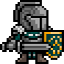
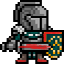
Les ennemis bougent !

diff --git a/square/logic-grid.js b/square/logic-grid.js
@@ -23,10 +23,8 @@ Camera.prototype.follow = function (sprite) {
 Camera.prototype.update = function () {
     // assume followed sprite should be placed at the center of the screen
     // whenever possible
-// if(this.following.life==0)
-// console.log(map.getCol(this.following.x));//////////////////////////////MAP
 
-                if(this.following.life==0)return;
+    if(this.following.life==0)return;
     this.following.screenX = this.width / 2;
     this.following.screenY = this.height / 2;
  
@@ -66,22 +64,6 @@ function animation(map, x, y, imageName){
     this.y = y;
 	this.image = Loader.getImage(imageName);
 }
-
-function Troll(map, x, y, row, col, life, attaque, defense, regeneration, level) {
-    this.map = map;
-    this.level = level;
-    this.attaque = attaque;
-    this.defense = defense;
-    this.regeneration = regeneration;
-    this.x = x;
-    this.y = y;
-    this.row = row;
-    this.col = col;
-    this.life = life;
-    this.width = map.tsize;
-    this.height = map.tsize;
-    this.image = Loader.getImage('troll3');
-}
  
  
  
@@ -90,9 +72,10 @@ Game.load = function () {
         Loader.loadImage('tiles', '../assets/tiles_new.png'),
         Loader.loadImage('hero', '../assets/character.png'),
         Loader.loadImage('hero2', '../assets/character2.png'),
-        Loader.loadImage('troll1', '../assets/troll1.jpg'),
         Loader.loadImage('troll2', '../assets/troll2.png'),
         Loader.loadImage('troll3', '../assets/troll3.png'),
+        Loader.loadImage('scorpion1', '../assets/scorpion1.png'),
+        Loader.loadImage('scorpion2', '../assets/scorpion2.png'),
         Loader.loadImage('coin', '../assets/coin.png'),
         Loader.loadImage('cloud', '../assets/cloud.png'),
         Loader.loadImage('xp', '../assets/xp.png'),
@@ -110,14 +93,9 @@ Game.init = function () {
     this.hero = new Hero(map, 160, 160, 60, 15, 200, 0, 0, 0, 0, 0, 'pelle');//map - x - y - vie - attaque - defense - ecu - bois - ble - argile - xp - objet
 	generateTroll(64, 64, 1, 1);
 	generateTroll(192, 192, 3, 3);
-    
-	function generateTroll(x, y, row, col){
-		var nameTroll = 'troll'+x+y;
-		this.nameTroll = new Troll(map, x, y, row, col, 60, 22, 18, 0.5, 1);
-		monsters[row+'-'+col] = this.nameTroll;
-		// monsters.push(this.nameTroll);
-	}
-	// console.log(monsters);
+	generateMonstre(map, 384, 128, 6, 2, 10, 10, 0.1, 1, 'scorpion1', 'scorpion2', 2, -1, 0);
+	generateMonstre(map, 576, 192, 9, 3, 10, 10, 0.1, 1, 'scorpion1', 'scorpion2', 0.5, 0, 1);
+
     this.camera = new Camera(map, 1024, 768);
     this.camera.follow(this.hero);
 	document.getElementById("addBuild").addEventListener('click',
@@ -154,6 +132,14 @@ Game.update = function (delta) {
 	// console.log(dirx);
 	if(this.hero.life<=0) return false;
     this.hero.move(delta, dirx, diry);
+	
+	//mouvement monstres
+	Object.keys(monsters).forEach(function(key) {
+		if(monsters[key].vitesse >0){
+			monsters[key].move(delta);
+		}
+	})
+	
     this.camera.update();
 };
  
@@ -225,6 +211,19 @@ Game._drawLayer = function (layer) {
 	})
 	
 
+   //sprite personnages
+   if(Game.anim>=DUREE_ANIMATION/2){
+		this.image = Loader.getImage('hero2');
+		Object.keys(monsters).forEach(function(key) {
+			monsters[key].image = Loader.getImage(monsters[key].image1);
+		})
+   }
+	else{
+		this.image = Loader.getImage('hero');
+		Object.keys(monsters).forEach(function(key) {
+			monsters[key].image = Loader.getImage(monsters[key].image2);
+		})
+	}
 	
 	if(typeof(anim) != "undefined" && anim !== null) {
 		if(Game.animBref<=DUREE_ANIMATION){
@@ -247,6 +246,7 @@ Game._drawLayer = function (layer) {
 			Game.animBref=0;
 		}
 	}
+
 	
 
 	//tir tourelles portée : 2
@@ -315,7 +315,7 @@ Game._drawLayer = function (layer) {
 						}else{
 							builds[key].xDelta=0;
 							builds[key].yDelta=0;
-							monsters[keyMonster].life = monsters[keyMonster].life-10;
+							monsters[keyMonster].life = monsters[keyMonster].life-builds[key].caracteristique['attaque'];
 							builds[key].cible =0;
 						}
 					}
@@ -376,6 +376,12 @@ Game.render = function () {
     this._drawLayer(0);
     // draw main character
     //joachim change place juste après le dessin de la grille
+   // console.log(monsters);
+   
+   
+   
+    // draw map top layer
+    this._drawLayer(1);
    
 	Object.keys(monsters).forEach(function(key) {
 			if(monsters[key].life>0){
@@ -419,8 +425,6 @@ Game.render = function () {
                
                
                
-    // draw map top layer
-    this._drawLayer(1);
  
     this._drawGrid();
     

diff --git a/square/js/monstre.js b/square/js/monstre.js
@@ -1,0 +1,100 @@
+function Monstre(map, x, y, row, col, attaque, defense, regeneration, level, imageParam, imageParam2, vitesse, directionX, directionY) {
+    this.map = map;
+    this.level = level;
+    this.attaque = attaque;
+    this.defense = defense;
+    this.regeneration = regeneration;
+    this.x = x;
+    this.y = y;
+    this.row = row;
+    this.col = col;
+    this.life = 60;
+    this.width = map.tsize;
+    this.height = map.tsize;
+    this.image = imageParam;
+    this.image1 = imageParam;
+    this.image2 = imageParam2;
+    this.vitesse = vitesse;
+    this.directionX = directionX;
+    this.directionY = directionY;
+}
+
+function generateTroll(x, y, row, col){
+	var nameTroll = 'troll'+x+y;
+	this.nameTroll = new Monstre(map, x, y, row, col, 22, 18, 0.5, 2, 'troll3', 'troll2', 0, 0, 0);
+	monsters[row+'-'+col] = this.nameTroll;
+	// monsters.push(this.nameTroll);
+}
+    
+function generateMonstre(map, x, y, row, col, attaque, defense, regeneration, level, image1, image2, vitesse, directionX, directionY){
+	var nameMonstre = 'troll'+x+y;
+	this.nameTroll = new Monstre(map, x, y, row, col, attaque, defense, regeneration, level, image1, image2, vitesse, directionX, directionY);
+	
+	// console.log(this.nameTroll);
+	monsters[row+'-'+col] = this.nameTroll;
+}
+	
+
+Monstre.SPEED = 50; // pixels per second
+ 
+Monstre.prototype.move = function (delta) {
+	
+		
+    // move Monstre
+    this.x += this.directionX * this.vitesse * Monstre.SPEED * delta;
+    this.y += this.directionY * this.vitesse * Monstre.SPEED * delta;
+    // check if we walked into a non-walkable tile
+	
+	if(this.directionX == 1){
+		var tile = abs2[this.map.getRow(this.y)*this.map.rows+this.map.getCol(this.x)+1];
+	}
+	if(this.directionX == -1){
+		var tile = abs2[this.map.getRow(this.y)*this.map.rows+this.map.getCol(this.x)-1];
+	}
+	if(this.directionY == 1){
+		var tile = abs2[this.map.getRow(this.y)*this.map.rows+this.map.getCol(this.x)+this.map.rows];
+	}
+	if(this.directionY == -1){
+		var tile = abs2[this.map.getRow(this.y)*this.map.rows+this.map.getCol(this.x)-this.map.rows];
+	}
+	
+	var isSolid = tile === 3 || tile === 5 || tile === 6 || tile === 7 || tile === 16 || tile === 17;
+    if(isSolid){
+		
+			if(this.directionX == -1){
+				this.directionX = 1;
+			}
+			else if(this.directionX ==1){
+				this.directionX=-1;
+			}
+			if(this.directionY==-1)
+				this.directionY=1;
+			else if(this.directionY==1)
+				this.directionY=-1;
+	}
+    // this._ennemy(dirx, diry);
+   
+ 
+    // check if he loses life
+    // this._loselifeTile(dirx, diry);
+	
+ 
+    // clamp values
+    var maxX = this.map.cols * this.map.tsize;
+    var maxY = this.map.rows * this.map.tsize;
+    this.x = Math.max(0, Math.min(this.x, maxX));
+    this.y = Math.max(0, Math.min(this.y, maxY));
+	
+	if(this.col != Math.round(this.y/this.map.tsize)){
+		monsters[Math.round(this.x/this.map.tsize)+'-'+Math.round(this.y/this.map.tsize)] = this;
+		delete monsters[this.row+'-'+this.col];		
+	// console.log(monsters);
+	}
+	// delete monsters[this.row+'-'+this.col];		
+	
+	this.row = Math.round(this.x/this.map.tsize);
+	this.col = Math.round(this.y/this.map.tsize);
+	// console.log(this);
+	
+};
+ 

diff --git a/square/js/map.js b/square/js/map.js
@@ -27,8 +27,8 @@ abs1 = [
 
 abs2 = [
         4, 3, 3, 3, 3, 3, 3, 3, 3, 3, 3, 3, 3, 3, 3, 16, 3, 3, 3, 3, 3, 3, 3, 4,
-        4, 0, 0, 0, 0, 0, 0, 0, 0, 0, 0, 15, 15, 16, 16, 15, 0, 0, 0, 0, 0, 0, 0, 4,
-        4, 0, 14, 0, 0, 0, 0, 0, 0, 0, 15, 16, 16, 16, 15, 0, 0, 0, 0, 0, 0, 0, 0, 4,
+        4, 0, 0, 4, 0, 0, 0, 0, 0, 0, 0, 15, 15, 16, 16, 15, 0, 0, 0, 0, 0, 0, 0, 4,
+        4, 0, 14, 3, 0, 0, 0, 0, 0, 0, 15, 16, 16, 16, 15, 0, 0, 0, 0, 0, 0, 0, 0, 4,
         4, 0, 0, 0, 0, 0, 0, 0, 0, 0, 15, 15, 16, 16, 15, 15, 0, 0, 0, 0, 0, 0, 0, 4,
         4, 0, 0, 0, 0, 0, 0, 0, 0, 0, 15, 15, 16, 16, 15, 15, 0, 0, 0, 0, 0, 0, 0, 4,
         4, 0, 0, 8, 0, 0, 0, 8, 8, 5, 15, 15, 16, 16, 15, 5, 0, 0, 0, 0, 0, 5, 0, 4,
@@ -81,27 +81,22 @@ var map = {
     isSolidTileAtXY: function (x, y) {
         var col = Math.floor(x / this.tsize);
         var row = Math.floor(y / this.tsize);
-		
         // tiles 3 and 5 6 and 7 are solid -- the rest are walkable
         // loop through all layers and return TRUE if any tile is solid
         return this.layers.reduce(function (res, layer, index) {
             var tile = this.getTile(index, col, row);
+			// console.log(row, col, tile);
             var isSolid = tile === 3 || tile === 5 || tile === 6 || tile === 7 || tile === 16 || tile === 17;
 			
             return res || isSolid;
         }.bind(this), false);
     },
     isEnnemyTileAtXY: function (x, y) {
-			var col = Math.floor(x / this.tsize);
-			var row = Math.floor(y / this.tsize);
-			
+			var row = Math.floor(x / this.tsize);
+			var col = Math.floor(y / this.tsize);
 			var isSolid=0;
 			if(monsters[row+'-'+col])
 				isSolid = monsters[row+'-'+col];
-			// monsters.forEach(function(element) {
-					// if(element.col  == col && element.row == row)
-						// isSolid= element;
-				// });
 				
 			return isSolid;
     },

diff --git a/square/js/hero.js b/square/js/hero.js
@@ -154,18 +154,15 @@ Hero.prototype.move = function (delta, dirx, diry) {
 	// if(dirx == 1|| diry == 1 || dirx == -1|| diry == -1)//si mouvement
    
    
-   if(Game.anim>=DUREE_ANIMATION/2){
-		this.image = Loader.getImage('hero2');
-		Object.keys(monsters).forEach(function(key) {
-			monsters[key].image = Loader.getImage('troll3');
-		})
-   }
-	else{
-		this.image = Loader.getImage('hero');
-		Object.keys(monsters).forEach(function(key) {
-			monsters[key].image = Loader.getImage('troll2');
-		})
-	}
+   //SI ON VEUT UNE IMAGE SPECIALE SI LE HEROS MARCHE
+   // if(Game.anim>=DUREE_ANIMATION/2){
+		// this.image = Loader.getImage('hero2');
+		
+   // }
+	// else{
+		// this.image = Loader.getImage('hero');
+		
+	// }
  
     // check if we walked into a non-walkable tile
     this._collide(dirx, diry);
@@ -180,7 +177,8 @@ Hero.prototype.move = function (delta, dirx, diry) {
     var maxX = this.map.cols * this.map.tsize;
     var maxY = this.map.rows * this.map.tsize;
     this.x = Math.max(0, Math.min(this.x, maxX));
-    this.y = Math.max(0, Math.min(this.y, maxY)); };
+    this.y = Math.max(0, Math.min(this.y, maxY));
+};
  
 Hero.prototype._loselifeTile = function (dirx, diry) {
     var row, col;
@@ -221,6 +219,7 @@ Hero.prototype._collide = function (dirx, diry) {
                
  
     // check for collisions on sprite sides
+    // var collision = false;
     var collision =
         this.map.isSolidTileAtXY(left, top) ||
         this.map.isSolidTileAtXY(right, top) ||

diff --git a/square/logic-grid.html b/square/logic-grid.html
@@ -13,6 +13,7 @@
     <script src="js/map.js"></script>
     <script src="logic-grid.js"></script>
     <script src="js/hero.js"></script>
+    <script src="js/monstre.js"></script>
 </head>
 <body> 
     <div class="container">
